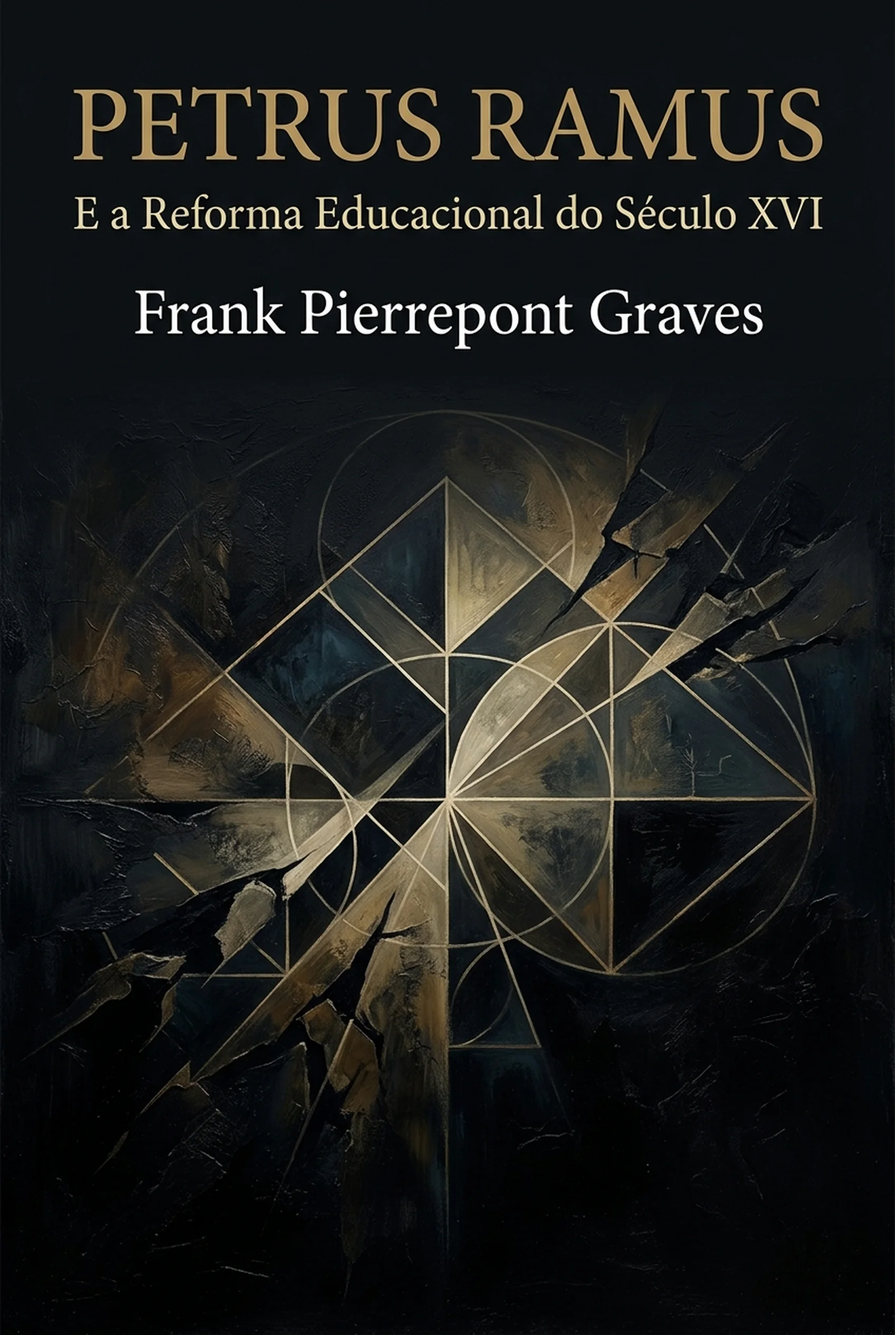
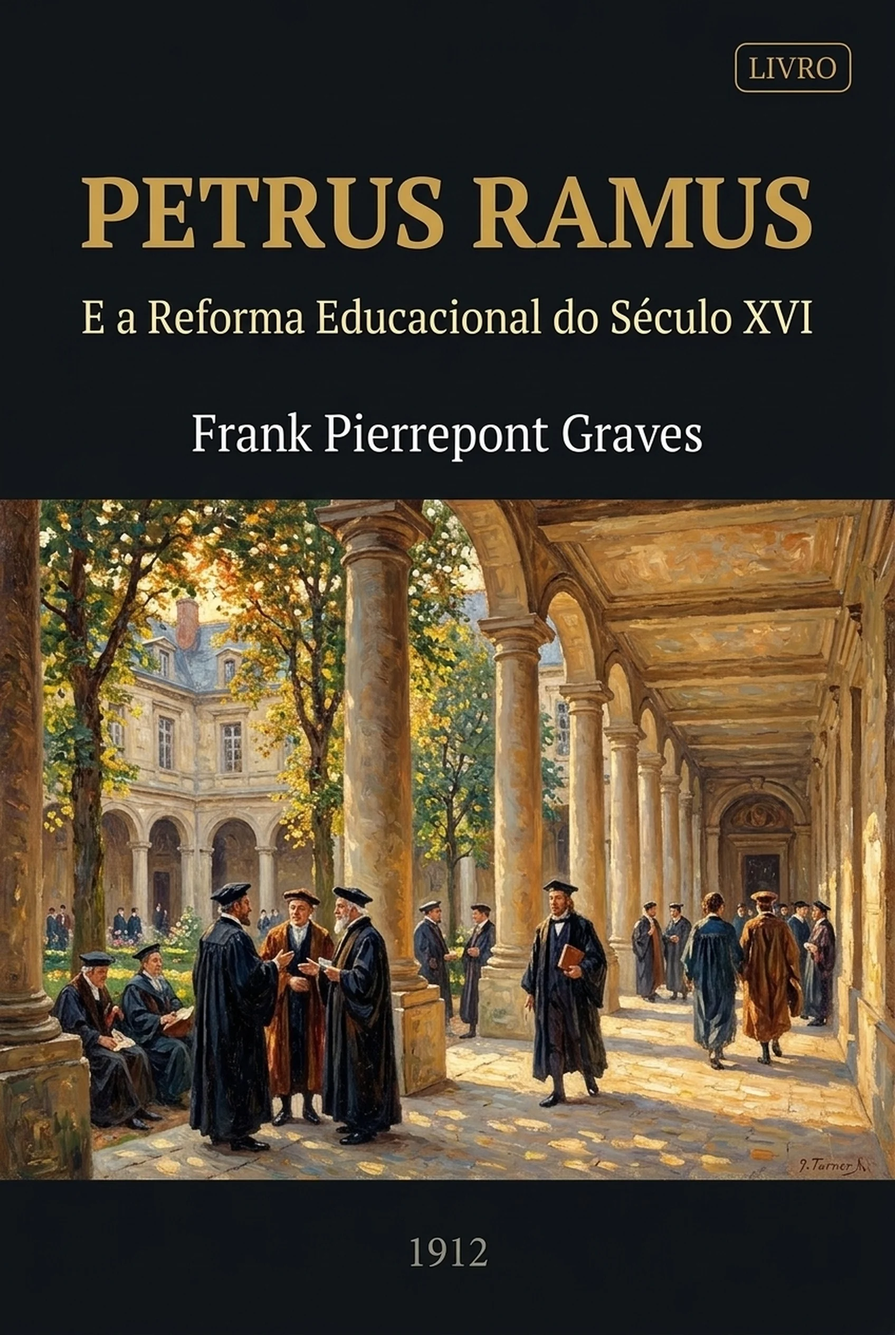
Atualizando capas

diff --git a/ROADMAP_COVERS.md b/ROADMAP_COVERS.md
@@ -17,11 +17,11 @@ Acompanhamento do processo de refatoração e criação manual das capas padroni
 | 7 | `cartas` | Inácio de Antioquia | 107 d.C. | ✅ Concluído |
 | 8 | `a-palavra-de-deus` | Hugo de São Vítor | c. 1130 d.C. | ✅ Concluído |
 | 9 | `a-substancia-do-amor` | Hugo de São Vítor | c. 1130 d.C. | ✅ Concluído |
-| 10 | `genealogia-espiritual-de-hugo-e-sao-tomas` | Hugo de São Vítor | c. 1130 d.C. | ⏳ Pausado (Aguardando Quota IA) |
-| 11 | `primeiro-livro-de-moises-chamado-genesis` | Moisés | c. 1400 a.C. | ⚪ Pendente |
-| 12 | `segundo-livro-de-moises-chamado-exodo` | Moisés | c. 1400 a.C. | ⚪ Pendente |
-| 13 | `comentario-sobre-a-religiao-crista` | Petrus Ramus | 1576 | ⚪ Pendente |
-| 14 | `petrus-ramus-e-a-reforma-educacional-do-seculo-xvi` | Petrus Ramus | Século XVI | ⚪ Pendente |
+| 10 | `genealogia-espiritual-de-hugo-e-sao-tomas` | Hugo de São Vítor | c. 1130 d.C. | ✅ Concluído |
+| 11 | `primeiro-livro-de-moises-chamado-genesis` | Moisés | c. 1400 a.C. | ✅ Concluído |
+| 12 | `segundo-livro-de-moises-chamado-exodo` | Moisés | c. 1400 a.C. | ✅ Concluído |
+| 13 | `comentario-sobre-a-religiao-crista` | Petrus Ramus | 1576 | ✅ Concluído |
+| 14 | `petrus-ramus-e-a-reforma-educacional-do-seculo-xvi` | Frank Pierrepont Graves | 1912 | ⏳ Em avaliação |
 
 ---
 
